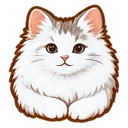
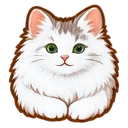
Weezy's eyes are green everywhere (sitting painting recolored from the full-size original; backup drawn cat gets green eyes with round pupils)
Claude-Session: https://claude.ai/code/session_01UWo5NUcV5E9NFbtz2taqPa

diff --git a/cat.js b/cat.js
@@ -15,11 +15,11 @@ let n = 0;
 function sitting(coat = 'grey', mood = 'open'){
   const c = COATS[coat] || COATS.grey, id = 'c' + (++n);
   const eyes = {
-    open:`<g class="eye"><ellipse cx="82" cy="80" rx="9.5" ry="10.5" fill="#a9c96b"/><ellipse cx="82" cy="80" rx="3.3" ry="8.4" fill="#1d1d1f"/><circle cx="85" cy="76" r="2.4" fill="#fff"/></g><g class="eye"><ellipse cx="118" cy="80" rx="9.5" ry="10.5" fill="#a9c96b"/><ellipse cx="118" cy="80" rx="3.3" ry="8.4" fill="#1d1d1f"/><circle cx="121" cy="76" r="2.4" fill="#fff"/></g>`,
-    wide:`<ellipse cx="82" cy="80" rx="11" ry="12" fill="#a9c96b"/><circle cx="82" cy="81" r="8" fill="#1d1d1f"/><circle cx="86" cy="76" r="3" fill="#fff"/><ellipse cx="118" cy="80" rx="11" ry="12" fill="#a9c96b"/><circle cx="118" cy="81" r="8" fill="#1d1d1f"/><circle cx="122" cy="76" r="3" fill="#fff"/>`,
+    open:`<g class="eye"><ellipse cx="82" cy="80" rx="9.5" ry="10.5" fill="#5f9e45"/><circle cx="82" cy="81" r="5" fill="#1d1d1f"/><circle cx="85" cy="76" r="2.4" fill="#fff"/></g><g class="eye"><ellipse cx="118" cy="80" rx="9.5" ry="10.5" fill="#5f9e45"/><circle cx="118" cy="81" r="5" fill="#1d1d1f"/><circle cx="121" cy="76" r="2.4" fill="#fff"/></g>`,
+    wide:`<ellipse cx="82" cy="80" rx="11" ry="12" fill="#5f9e45"/><circle cx="82" cy="81" r="8" fill="#1d1d1f"/><circle cx="86" cy="76" r="3" fill="#fff"/><ellipse cx="118" cy="80" rx="11" ry="12" fill="#5f9e45"/><circle cx="118" cy="81" r="8" fill="#1d1d1f"/><circle cx="122" cy="76" r="3" fill="#fff"/>`,
     closed:`<path d="M72 81 Q82 87 92 81M108 81 Q118 87 128 81" fill="none" stroke="${c.stripe}" stroke-width="3" stroke-linecap="round"/>`,
     happy:`<path d="M72 84 Q82 72 92 84M108 84 Q118 72 128 84" fill="none" stroke="${c.stripe}" stroke-width="3" stroke-linecap="round"/>`,
-    sad:`<ellipse cx="82" cy="82" rx="8.5" ry="9" fill="#a9c96b"/><circle cx="82" cy="83" r="5.5" fill="#1d1d1f"/><circle cx="84" cy="79" r="2.2" fill="#fff"/><ellipse cx="118" cy="82" rx="8.5" ry="9" fill="#a9c96b"/><circle cx="118" cy="83" r="5.5" fill="#1d1d1f"/><circle cx="120" cy="79" r="2.2" fill="#fff"/><path d="M71 70 L90 74M129 70 L110 74" stroke="${c.stripe}" stroke-width="2.6" stroke-linecap="round"/>`,
+    sad:`<ellipse cx="82" cy="82" rx="8.5" ry="9" fill="#5f9e45"/><circle cx="82" cy="83" r="5.5" fill="#1d1d1f"/><circle cx="84" cy="79" r="2.2" fill="#fff"/><ellipse cx="118" cy="82" rx="8.5" ry="9" fill="#5f9e45"/><circle cx="118" cy="83" r="5.5" fill="#1d1d1f"/><circle cx="120" cy="79" r="2.2" fill="#fff"/><path d="M71 70 L90 74M129 70 L110 74" stroke="${c.stripe}" stroke-width="2.6" stroke-linecap="round"/>`,
   }[mood] || '';
   return `<svg class="cat-svg sit" viewBox="0 0 200 222" aria-hidden="true">
   <defs><radialGradient id="${id}f" cx="45%" cy="35%" r="75%"><stop offset="0" stop-color="${c.light}"/><stop offset=".55" stop-color="${c.fur}"/><stop offset="1" stop-color="${c.dark}"/></radialGradient></defs>
